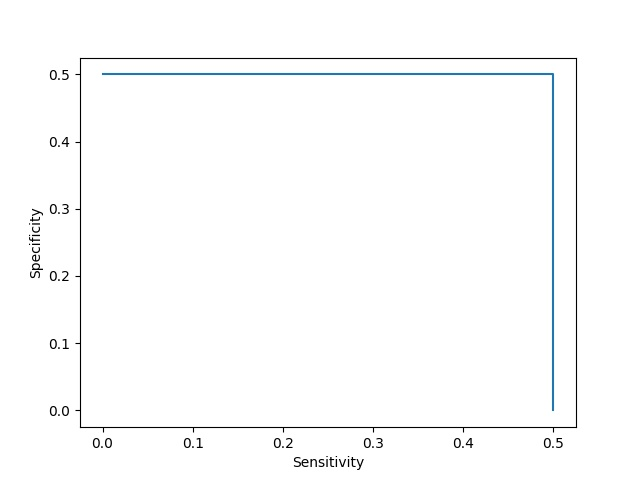
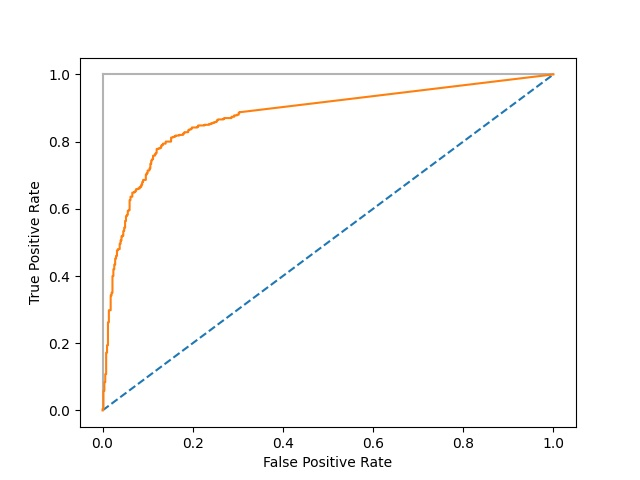
fixed DLNN and evaluate

diff --git a/DLNN.py b/DLNN.py
@@ -3,9 +3,10 @@ import matplotlib.pyplot as plt
 import numpy as np
 from keras.models import Sequential
 from keras.layers import Dense
+from tensorflow.keras import regularizers
 import img_proc
 
-def DLNN(X,Y,nn_dims,epochs = 10,batch_size = 25,loss='binary_crossentropy'):
+def DLNN(X,Y,nn_dims,epochs = 500,batch_size = 25,loss='binary_crossentropy',lambd = 1e-4):
 	""" 
 	Inputs:
 		 X - training data (np.array(rows: #examples; cols: #features))
@@ -25,37 +26,53 @@ def DLNN(X,Y,nn_dims,epochs = 10,batch_size = 25,loss='binary_crossentropy'):
 	layers = len(nn_dims) # number of layers
 
 	trained_model = Sequential()
-	trained_model.add(Dense(nn_dims[0], input_dim = 25, activation = 'relu'))
+	trained_model.add(Dense(nn_dims[0], input_dim = n, activation = 'relu',kernel_initializer = 'glorot_uniform',bias_initializer='zeros',kernel_regularizer=regularizers.l2(lambd), bias_regularizer=regularizers.l2(lambd)))
 
 
 	for i in range(1,layers - 1):
 		neurons = nn_dims[i]
-		trained_model.add(Dense(neurons, activation='relu'))
+		trained_model.add(Dense(neurons, activation='relu',kernel_initializer = 'glorot_uniform',bias_initializer='zeros', kernel_regularizer=regularizers.l2(lambd), bias_regularizer=regularizers.l2(lambd)))
 
-	trained_model.add(Dense(1, activation='sigmoid'))
+	trained_model.add(Dense(1, activation='sigmoid',kernel_initializer = 'glorot_uniform',bias_initializer='zeros',kernel_regularizer=regularizers.l2(lambd), bias_regularizer=regularizers.l2(lambd)))
 	trained_model.compile(loss = loss, optimizer = 'adam', metrics=['accuracy'])
-	trained_model.fit(X[:,0:25], Y, epochs = epochs, batch_size = batch_size)
+	trained_model.fit(X, Y, epochs = epochs, batch_size = batch_size)
 
 	return trained_model
 
+def normalize(X):
+	m = np.shape(X)[0] # number of examples
+	n = np.shape(X)[1] # number of features in an example 
+	mu = np.reshape(np.sum(X,axis=0),(1,n))/m
+	return (X - mu)/255
+	# Sigma = np.cov(X.T)
+	# return np.solve(Sigma,X_centred)
+
 def main():
-	X_train, y_train = next(img_proc.slice_data_sequential('data/train_sep', 100))
-	X_test, y_test = next(img_proc.slice_data_sequential('data/test', 100))
-	print(X_train.shape)
-	y_test.shape = (y_test.shape[0], 1)
-	print(y_test.shape)
-	model = DLNN(X_train,y_test,[np.shape(X_train)[1],64,16,4,1])
-	y_train_pred = model.predict(X_test[:,0:25])
-	y_test_pred = model.predict(X_test[:,0:25])
+	X_train, y_train = next(img_proc.slice_data_sequential('data/train_sep', 1000))
+	model = DLNN(normalize(X_train),y_train,[1024,256,64,16,4,1],epochs = 20)
+	y_train_pred = model.predict(X_train)
+
+	X_test, y_test = next(img_proc.slice_data_sequential('data/test', 1000))
+	y_test_pred = model.predict(normalize(X_test))
     
 
-	evaluate.ROCandAUROC(y_train_pred,y_train,'eval_train_data.txt','ROC_train_data.jpeg','AUROC_train_data.jpeg')	
-	evaluate.ROCandAUROC(y_test_pred,y_test,'eval_test_data.txt','ROC_test_data.jpeg','AUROC_test_data.jpeg')
+	auc_roc,threshold_best = evaluate.ROCandAUROC(y_test_pred,y_test,'ROC_test_data.jpeg')
 
-	thresh = 0.5
-	tp,fn,fp,tn = evaluate.counts(y_test_pred, y_test, threshold = thresh)
+	print(f"\nArea Under ROC = {auc_roc}")
+	tp,fn,fp,tn = evaluate.counts(y_train_pred, y_train, threshold = threshold_best)
 	acc,prec,sens,spec,F1 = evaluate.stats(tp,fn,fp,tn)
-	print(f"Threshold = {thresh}")
+	print("\nStats for predictions on train set:")
+	print(f"Threshold = {threshold_best}")
+	print(f"Accuracy = {acc}")
+	print(f"Precision = {prec}")
+	print(f"Sensitivity = {sens}")
+	print(f"Specificity = {spec}")
+	print(f"F1 score = {F1}")
+
+	tp,fn,fp,tn = evaluate.counts(y_test_pred, y_test, threshold = threshold_best)
+	acc,prec,sens,spec,F1 = evaluate.stats(tp,fn,fp,tn)
+	print("\nStats for predictions on test set:")
+	print(f"Threshold = {threshold_best}")
 	print(f"Accuracy = {acc}")
 	print(f"Precision = {prec}")
 	print(f"Sensitivity = {sens}")

diff --git a/evaluate.py b/evaluate.py
@@ -1,3 +1,5 @@
+from sklearn.metrics import roc_curve
+from sklearn.metrics import roc_auc_score
 import numpy as np
 import matplotlib.pyplot as plt
 
@@ -23,12 +25,12 @@ def counts(y_pred, y_true, threshold = 0.5):
 	m = np.shape(y_true)[0]
 	for i in range(m):
 		if y_pred[i] >= threshold:
-			if y_true[i] == 1:
+			if y_true[i] == 1.0:
 				tp += 1
 			else:
 				fn += 1
 		else:
-			if y_true [i] == 1:
+			if y_true [i] == 1.0:
 				fp += 1
 			else:
 				tn += 1
@@ -50,47 +52,34 @@ def stats(tp,fn,fp,tn):
 	eps = 1e-7
 	accuracy =  (tp+tn)/(tp+fn+fp+tn)
 	precision = tp/(tp+fp+eps)
-	sensitivity = tp/(tp+fn+eps)
+	sensitivity = tp/(tp+fn+eps) # = recall = tp/(tp+fn+eps)
 	specificity = tn/(tn+fp+eps)
 	F1 = (2/((1/(sensitivity + eps)) +  (1/(precision+eps))))
 
 	return accuracy,precision,sensitivity,specificity,F1
 
-def ROCandAUROC(y_pred,y_true,eval_data_save_path = 'eval_data.txt',ROC_path = 'ROC.jpeg',AUROC_path = 'AUROC.jpeg'):
-	length = 50
-	threshold = np.linspace(0,1,length)
-	acc = np.zeros((length,1))
-	prec = np.zeros((length,1))
-	sens = np.zeros((length,1))
-	spec = np.zeros((length,1))
-	F1 = np.zeros((length,1))
+def ROCandAUROC(y_pred,y_true,ROC_path = 'ROC.jpeg'):
 
-	for i in range(len(threshold)):
-		tp,fn,fp,tn = counts(y_pred, y_true, threshold[i])
-		acc[i],prec[i],sens[i],spec[i],F1[i] = stats(tp,fn,fp,tn)
+	#getting true positive rate and false positive rate
+	fpr, tpr, thresholds = roc_curve(y_true, y_pred)
 
 	# Plot ROC Curve
 	plt.figure()
-	plt.step(sens, spec,where='pre')
-	plt.xlabel('Sensitivity')
-	plt.ylabel('Specificity')
+	plt.plot([0, 1], ls="--")
+	plt.plot([0, 0], [1, 0] , c=".7")
+	plt.plot([1, 1] , c=".7")
+	plt.plot(fpr, tpr)
+	plt.ylabel('True Positive Rate')
+	plt.xlabel('False Positive Rate')
 	plt.savefig(ROC_path)
 
-    # Plotting AUROC
-	plt.figure()
-	plt.step(sens,prec,where='pre')
-	plt.xlabel('Precision')
-	plt.ylabel('Sensitivity')
-	plt.savefig(AUROC_path)
+	auc = roc_auc_score(y_true, y_pred)
 
-	threshold = np.reshape(threshold, (threshold.shape[0],1))
-	acc = np.reshape(acc, (acc.shape[0],1))
-	prec = np.reshape(prec, (prec.shape[0],1))
-	sens = np.reshape(sens, (sens.shape[0],1))
-	spec = np.reshape(spec, (spec.shape[0],1))
-	F1 = np.reshape(F1, (F1.shape[0],1))
+	#finding best threshold
+	p = fpr*np.flip(tpr)
+	indx_best = 0
+	for i in range(len(p)):
+		if p[indx_best] <= p[i]:
+			indx_best = i
 
-    #saving data
-	np.savetxt(eval_data_save_path,np.concatenate((threshold,acc,prec,sens,spec,F1), axis=1), header='threshold,accuracy,precision,sensitivity,specificity,F1')
-
-
+	return auc, thresholds[indx_best]

diff --git a/img_proc.py b/img_proc.py
@@ -10,7 +10,7 @@ def flatten_pixels(img_list):
     return [color_val for pixel in img_list for color_val in pixel]
 
 def normalize_data(data):
-    return data / 255
+    return data #/ 255
 
 def num_data(dir_path):
     top_dir = Path(dir_path)
